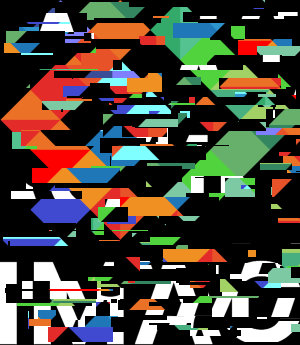
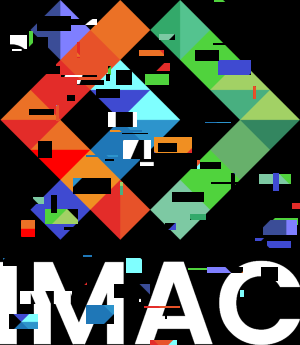
update glistch

diff --git a/src/16_glitch/main.cpp b/src/16_glitch/main.cpp
@@ -6,13 +6,13 @@ int main()
     sil::Image input_image{"images/logo.png"};
     sil::Image output_image{input_image};
 
-    const glm::vec2 max_size_box{100, 20};
+    const glm::vec2 max_size_box{40, 20};
 
-    for (size_t i = 0; i < 200; ++i)
+    for (size_t i = 0; i < 40; ++i)
     {
         glm::vec2 input_pos{random_int(0, input_image.width()), random_int(0, input_image.height())};
         glm::vec2 output_pos{random_int(0, input_image.width()), random_int(0, input_image.height())};
-        glm::vec2 output_size{random_int(0, max_size_box.x), random_int(0, max_size_box.y)};
+        glm::vec2 output_size{random_int(1, max_size_box.x), random_int(1, max_size_box.y)};
 
         for (size_t x = 0; x < output_size.x; ++x)
         {
@@ -25,6 +25,7 @@ int main()
                     input_pos.y + y < input_image.height())
                 {
                     output_image.pixel(output_pos.x + x, output_pos.y + y) = input_image.pixel(input_pos.x + x, input_pos.y + y);
+                    output_image.pixel(input_pos.x + x, input_pos.y + y) = input_image.pixel(output_pos.x + x, output_pos.y + y);
                 }
             }
         }
